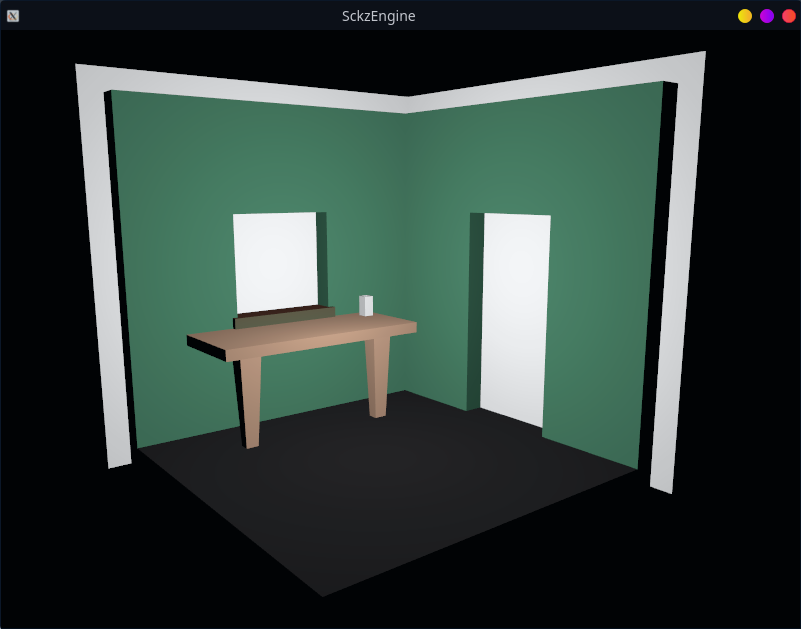
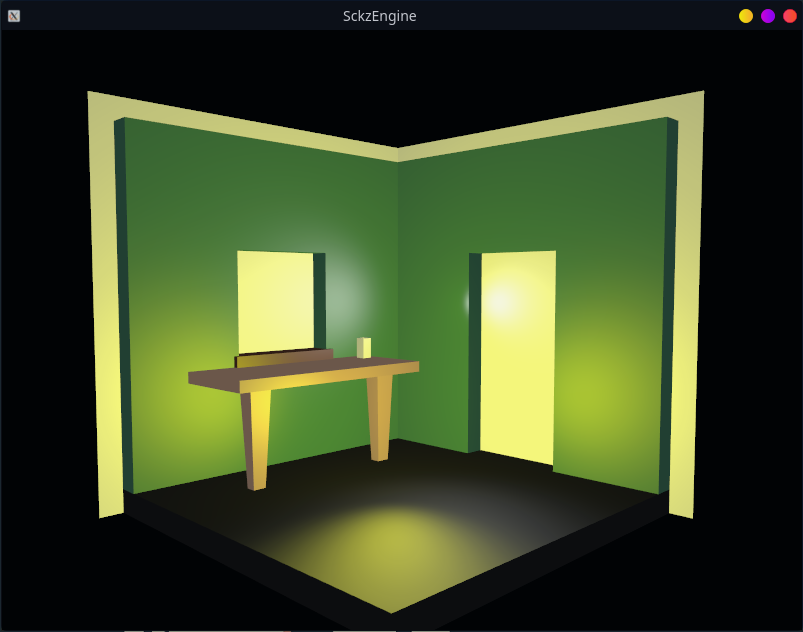
GOT EVERYTHING TO WORK FOR GOD SAKE!

diff --git a/Game/SckzEngine.cpp b/Game/SckzEngine.cpp
@@ -8,45 +8,54 @@ int main()
     sckz::Vulkan vkan;
     vkan.CreateVulkan(win);
 
-    sckz::GraphicsPipeline & p1   = vkan.CreatePipeline("Resources/simple_vertex.spv", "Resources/simple_fragment.spv");
-    sckz::Model &            m1   = vkan.CreateModel("Resources/room.obj", "Resources/RoomTextureAtlas.png", p1);
-    sckz::Model &            m2   = vkan.CreateModel("Resources/flare.obj", "Resources/placeholder.png", p1);
-    sckz::Light &            l1   = vkan.CreateLight();
-    sckz::Light &            l2   = vkan.CreateLight();
-    sckz::Entity &           e1   = vkan.CreateEntity(m1);
-    sckz::Entity &           e2   = vkan.CreateEntity(m2);
-    sckz::Entity &           e3   = vkan.CreateEntity(m2);
-    sckz::Camera &           cam1 = vkan.CreateCamera(45, 0.1, 10);
+    sckz::GraphicsPipeline & p1 = vkan.CreatePipeline("Resources/simple_vertex.spv", "Resources/simple_fragment.spv");
+    sckz::Model &            m1 = vkan.CreateModel("Resources/room.obj", "Resources/RoomTextureAtlas.png", p1);
+    // sckz::Model &            m2   = vkan.CreateModel("Resources/flare.obj", "Resources/placeholder.png", p1);
+    sckz::Light &  l1 = vkan.CreateLight();
+    sckz::Light &  l2 = vkan.CreateLight();
+    sckz::Entity & e1 = vkan.CreateEntity(m1);
+    // sckz::Entity &           e2   = vkan.CreateEntity(m2);
+    // sckz::Entity &           e3   = vkan.CreateEntity(m2);
+    sckz::Camera & cam1 = vkan.CreateCamera(45, 0.1, 10);
 
-    e1.SetShine(0, 0.1);
+    e1.SetShine(1, 10);
     e1.SetRotation(90, 0, 0);
     e1.SetLocation(0, 1, 0);
 
-    e2.SetShine(0, 0.1);
-    e2.SetRotation(0, 0, 0);
-    e2.SetLocation(0, 0.5, -1);
-    e2.SetScale(0.1, 0.1, 0.1);
+    // e2.SetShine(1, 10);
+    // e2.SetRotation(90, 0, 0);
+    // e2.SetLocation(1, 1, 1);
 
-    e3.SetShine(0, 0.1);
-    e3.SetRotation(0, 0, 0);
-    e3.SetLocation(10, 10, 20);
-    e3.SetScale(0.1, 0.1, 0.1);
+    l1.SetColor(0.2, 0.2, 0.2);
+    l1.SetLocation(1, 1, 1);
+    l1.SetAttenuation(1, 0.01, 0.002);
 
-    l1.SetColor(1, 0, 0);
-    l1.SetLocation(10, 10, 20);
-    l1.SetAttenuation(1, 0, 0);
+    // e3.SetShine(1, 10);
+    // e3.SetRotation(90, 0, 0);
+    // e3.SetLocation(0, 0, 0);
 
-    l2.SetColor(0, 1, 0);
-    l2.SetLocation(0, 1, -2.5);
-    l2.SetAttenuation(1, 0, 0);
+    l2.SetColor(1, 1, 0);
+    l2.SetLocation(0, 0, 0);
+    l2.SetAttenuation(1, 0.01, 0.002);
 
     cam1.SetLocation(0, 5, 0);
     cam1.SetRotation(-90, 0, 0);
 
     while (!win.QueryClose())
     {
-        std::cout << "[CAMERA LOCATION] X: " << cam1.GetLocation().x << " Y: " << cam1.GetLocation().y
+        std::cout << "[Camera location] X: " << cam1.GetLocation().x << " Y: " << cam1.GetLocation().y
                   << " Z: " << cam1.GetLocation().z << std::endl;
+
+        if (win.QueryKey('y'))
+        {
+            e1.SetRotation(e1.GetRotation().x, e1.GetRotation().y + (40 * vkan.GetDeltaT()), e1.GetRotation().z);
+        }
+
+        if (win.QueryKey('t'))
+        {
+            e1.SetRotation(e1.GetRotation().x, e1.GetRotation().y - (40 * vkan.GetDeltaT()), e1.GetRotation().z);
+        }
+
         if (win.QueryKey('w'))
         {
             cam1.SetLocation(cam1.GetLocation().x, cam1.GetLocation().y - (1 * vkan.GetDeltaT()), cam1.GetLocation().z);

diff --git a/SckzCore/Vulkan/Entity.cpp b/SckzCore/Vulkan/Entity.cpp
@@ -61,22 +61,24 @@ namespace sckz
         Vubo.view = camera.GetView();
         Vubo.proj = camera.GetProjection();
 
-        Fubo.reflectivity = this->reflectivity;
-        Fubo.shineDamper  = this->shineDamper;
+        Fubo.reflectivity.x = this->reflectivity;
+        Fubo.reflectivity.y = this->shineDamper;
 
         for (int i = 0; i < MAX_LIGHTS; i++)
         {
             if (i < lights->size())
             {
+                std::cout << (*lights)[i]->GetColor().x << " " << (*lights)[i]->GetColor().y << " "
+                          << (*lights)[i]->GetColor().z << " " << std::endl;
                 Vubo.lightPosition[i] = (*lights)[i]->GetLocation();
-                Fubo.lightColor[i]    = (*lights)[i]->GetColor();
-                Fubo.attenuation[i]   = (*lights)[i]->GetAttenuation();
+                Fubo.lightColor[i]    = glm::vec4((*lights)[i]->GetColor(), 0);
+                Fubo.attenuation[i]   = glm::vec4((*lights)[i]->GetColor(), 0);
             }
             else
             {
                 Vubo.lightPosition[i] = glm::vec3(0, 0, 0);
-                Fubo.lightColor[i]    = glm::vec3(0, 0, 0);
-                Fubo.attenuation[i]   = glm::vec3(1, 0, 0);
+                Fubo.lightColor[i]    = glm::vec4(0, 0, 0, 0);
+                Fubo.attenuation[i]   = glm::vec4(1, 0, 0, 0);
             }
         }
 

diff --git a/SckzCore/Vulkan/Entity.hpp b/SckzCore/Vulkan/Entity.hpp
@@ -10,7 +10,12 @@
 
 namespace sckz
 {
-    static const int MAX_LIGHTS = 2;
+    static const int MAX_LIGHTS = 4;
+
+    struct SpecialVec3
+    {
+        glm::vec3 vec[MAX_LIGHTS];
+    };
 
     struct VertexUniformBufferObject
     {
@@ -23,11 +28,11 @@ namespace sckz
 
     struct FragmentUniformBufferObject
     {
-        alignas(16) glm::vec3 lightColor[MAX_LIGHTS];
-        alignas(16) glm::vec3 attenuation[MAX_LIGHTS];
-
-        alignas(16) float shineDamper;
-        alignas(16) float reflectivity;
+        alignas(16) glm::vec4 lightColor[MAX_LIGHTS];
+        alignas(16) glm::vec4 attenuation[MAX_LIGHTS];
+        // Use Vec4 instead of vec3 for alignment, it takes up the same amount of bytes as aligning it properly and
+        // this is easier
+        alignas(16) glm::vec2 reflectivity;
     };
 
     class Entity

diff --git a/readme.md b/readme.md
@@ -51,6 +51,7 @@ All Code in this library is (c) Sckzor 2021, All rights reserved!
 ## Known issues and bugs
 
 - [ ] The sampler does not need to be recreated with every texture, one for all of the textures is fine.
+- [ ] Some strange bug where if a time.deltatime call is made in the first iteration of the main while loop then the movement/ rotation of an object will just lockup and not move at all?
 
 ## Build tools
 
